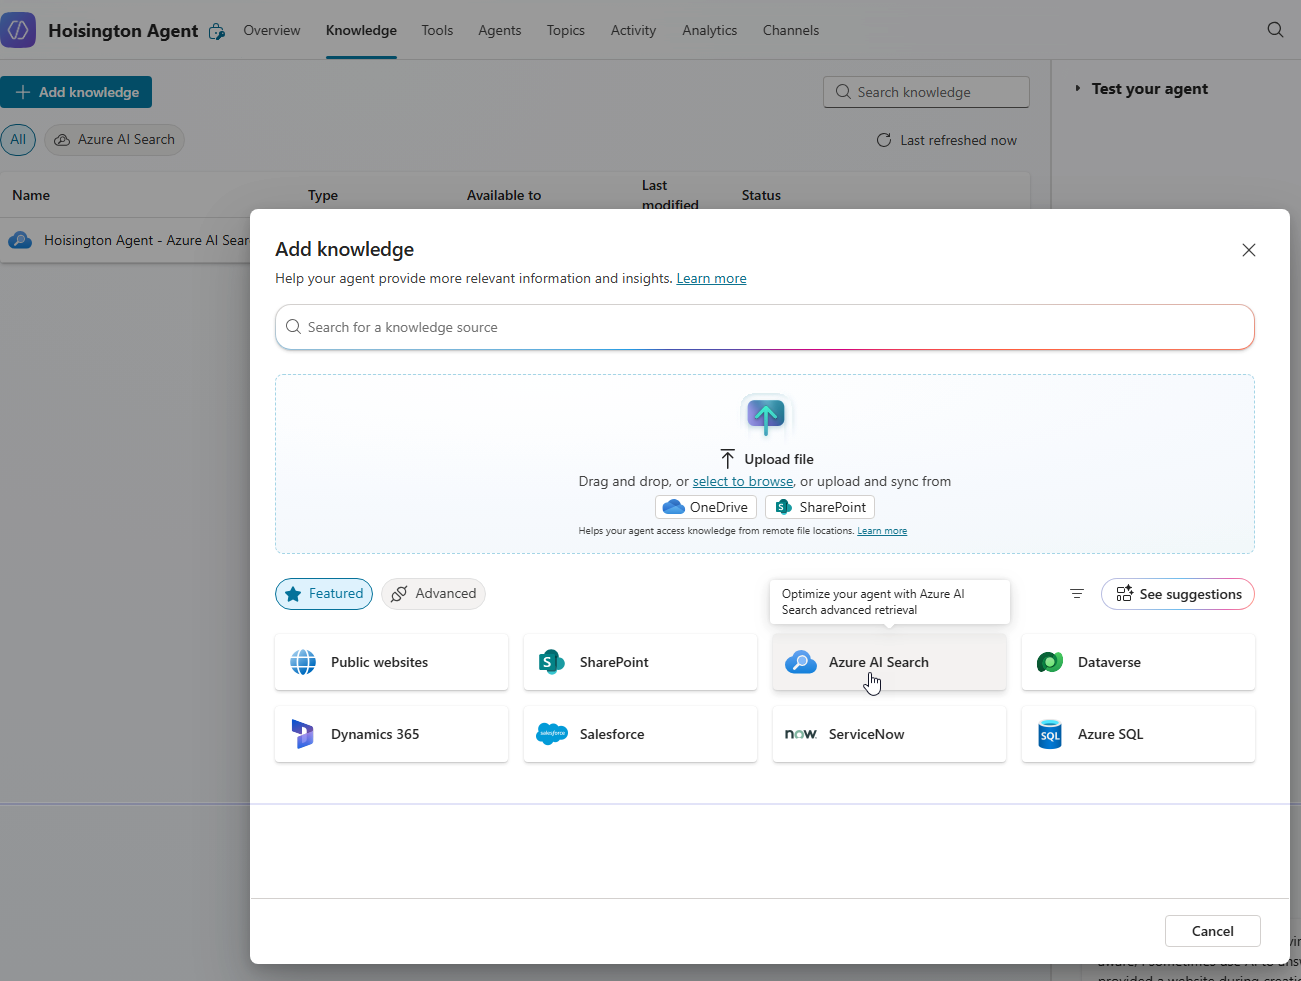
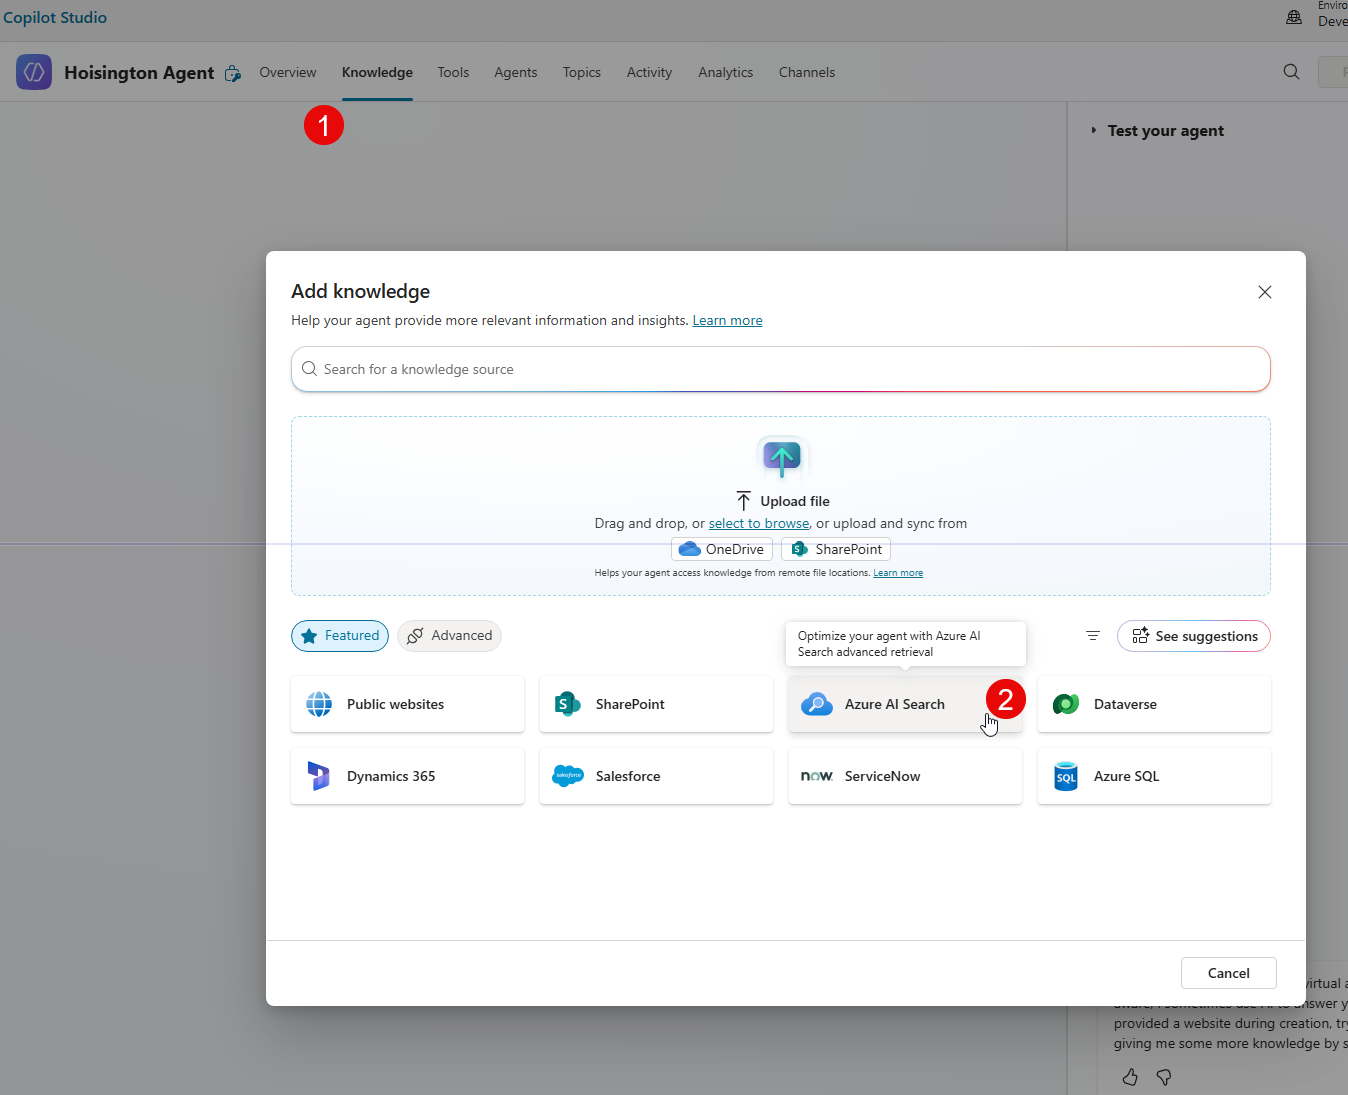
docs

diff --git a/README.md b/README.md
@@ -9,7 +9,7 @@ The project uses VS Code Dev Containers to provide a ready-to-use environment wh
 
 - **Azure AI Search** resources with indexes and indexers to chunk and vectorize files
 - A **storage account** for document storage
-- **Azure OpenAI** used for embeddings.
+- **Azure OpenAI** is used for embeddings.
 
 Unlike the default OneDrive setup, the mentioned indexers can be triggered on demand whenever files change, ensuring timely and consistent updates to your search index.
 
@@ -18,7 +18,7 @@ Unlike the default OneDrive setup, the mentioned indexers can be triggered on de
 1. **Configure Variables**
 
    - In the src directory, rename terraform.tfvars.sample to terraform.tfvars.
-   - Open terraform.tfvars and update the input variables as needed for your environment.
+   - Open terraform.tfvars and update the input variables as needed (organization, project, subscription, tenant).
 
 2. **Run Terraform Commands**
 
@@ -28,23 +28,21 @@ Unlike the default OneDrive setup, the mentioned indexers can be triggered on de
    terraform apply "ai.tfplan"
    ```
 
+   Take note of the output, which has the Azure CLI command run in Step 4.
+
+   ```bash
+   az rest --method post --url https://<service-name>.search.windows.net/indexers/<indexr-name>/run?api-version=2024-07-01 --headers "api-key=<api-key>" --skip-authorization-header --body ""
+   ```
+
 3. **Load Sample Data**
 
-   - Sample files are provided in the artfacts/hoisington folder.
-   - These contain quarterly economic research data for testing.
-   - Upload them to the blob container named hoisington in the storage account created by Terraform.
-   - For testing indexing updates, try uploading only part of the sample set at first, then add more later while observing changes in agent responses.
+   - Sample files are provided in the **artifacts/hoisington** folder.  These contain quarterly economic research data for testing.
+   - Upload them to the blob container named “hoisington” in the storage account created by Terraform.  For testing indexing updates, try uploading only part of the sample set at first, then add more later while observing changes in agent responses.  For example, upload only 2024-2025 and then 2022-2023 later.
 
 4. **Run the Indexer**
 
-   1. After uploading files, manually trigger the Azure AI Search indexer to process the new or changed documents.
-   
-      ```bash
-      az search indexer run \
-        --name hoisington-indexer \
-        --service-name <search-service-name> \
-        --resource-group <resource-group-name>
-      ```
+   1. After uploading files, manually trigger the Azure AI Search indexer to process the new or changed documents using the REST command from Step 1.  
+   2. Navigate to the index blade of the search service resource to ensure the indexer ran successfully.
 
 ### Part II - Copilot Studio
 
@@ -53,25 +51,30 @@ This guide assumes you’re already familiar with the basics of creating an agen
 | Setting                      | Value                                                        |
 | ---------------------------- | ------------------------------------------------------------ |
 | Name                         | Hoisington Agent                                             |
-| Description                  | Use the agent to answer questions about Hoisington quarterly research |
-| Instructions                 | You are a helpful agent who answers questions about Hoisington's quarterly research.  Use the header for page 1 to determine the year and quarter for the research |
+| Description                  | Use this agent to answer questions about Hoisington quarterly research |
+| Instructions                 | \- You are a helpful agent who answers questions about Hoisington's quarterly research.  <br />- Use the header for page 1 to determine the year and quarter for the research.  <br />- Do must NOT present data for a year and quarter in question unless it's explicitly from the file that has that data.  For example, if the prompt is for Q1 2024 do not use any data from documents other than Q1 2024. |
 | Use general knowledge        | No                                                           |
 | Use information from the Web | No                                                           |
 
 **Connecting Knowledge to Azure AI Search**
 
-1. In the **Knowledge** tab of your agent, click **Add knowledge** and select **Azure AI Search** ([image](./docs/copilot-studio-knowledge-setting-1.png))
-2. When prompted, set up a connection to the Azure AI Search resource created in **Part 1**. ([image](./docs/copilot-studio-knowledge-setting-2.png))
-3. Have the following information ready:
-   - **URL** of the Azure AI Search service
-   - **Administration key** for that service
+1. After the agent is created, in the **Knowledge** tab of your agent, click **Add knowledge** and select **Azure AI Search** ([image](./docs/copilot-studio-knowledge-setting-1.png))
+2. In the following dialog, select Create new connection under Your Connections ([image](./docs/copilot-studio-knowledge-setting-3.png))
+3. St up a connection to the Azure AI Search resource created in **Part 1**. ([image](./docs/copilot-studio-knowledge-setting-2.png)).  The URL and API admin key required in this dialog were output in Step 1 of the last section.  
+4. Choose the hoisington-index ([image](./docs/copilot-studio-knowledge-setting-4.png)).
 
 Copilot Studio will use this connection to query the indexes you’ve built in Azure AI Search.
 
 ### Part III - Test
 
-Once the agent is created, you can prompt it with requests such as the following.
+Once the agent is created, you can prompt it with requests such as the following.   
 
 - Summarize Hoisington's quarterly research for Q1 2025
-- Summarize Hoisington's quarterly research for Q2 2024
+- Summarize Hoisington's quarterly research for Q2 2022
 - Compare and contrast Q1 2025 with Q2 2025.  What changed?
+
+If only a subset of the data was uploaded, expect a reply like the following if there is no data for the year and quarter in question.
+
+> The summary for Hoisington's quarterly research for Q1 2025 is not available. The search result provided an overview for Q1 2023 instead.  Would you like me to search for any other specific information or assist you with something else?
+
+To remedy this, upload the remaining data and rerun in the indexer.
